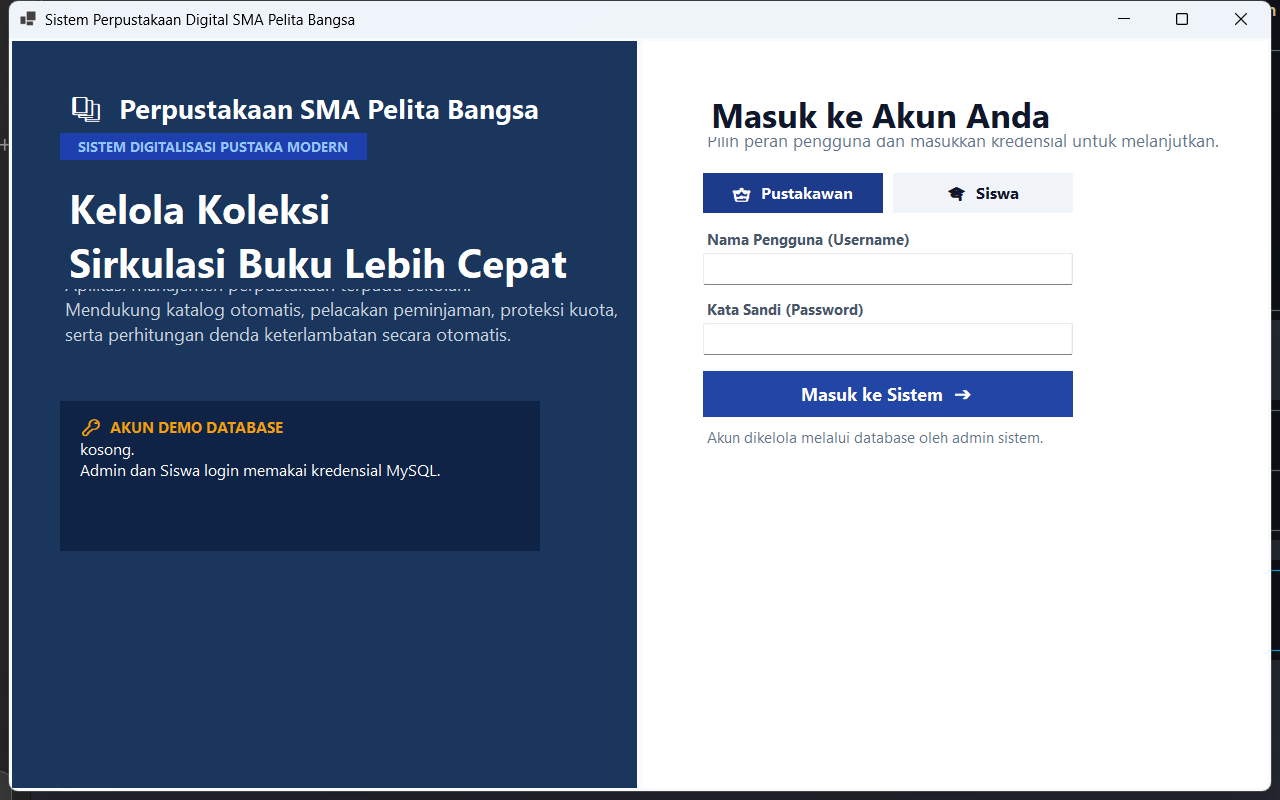
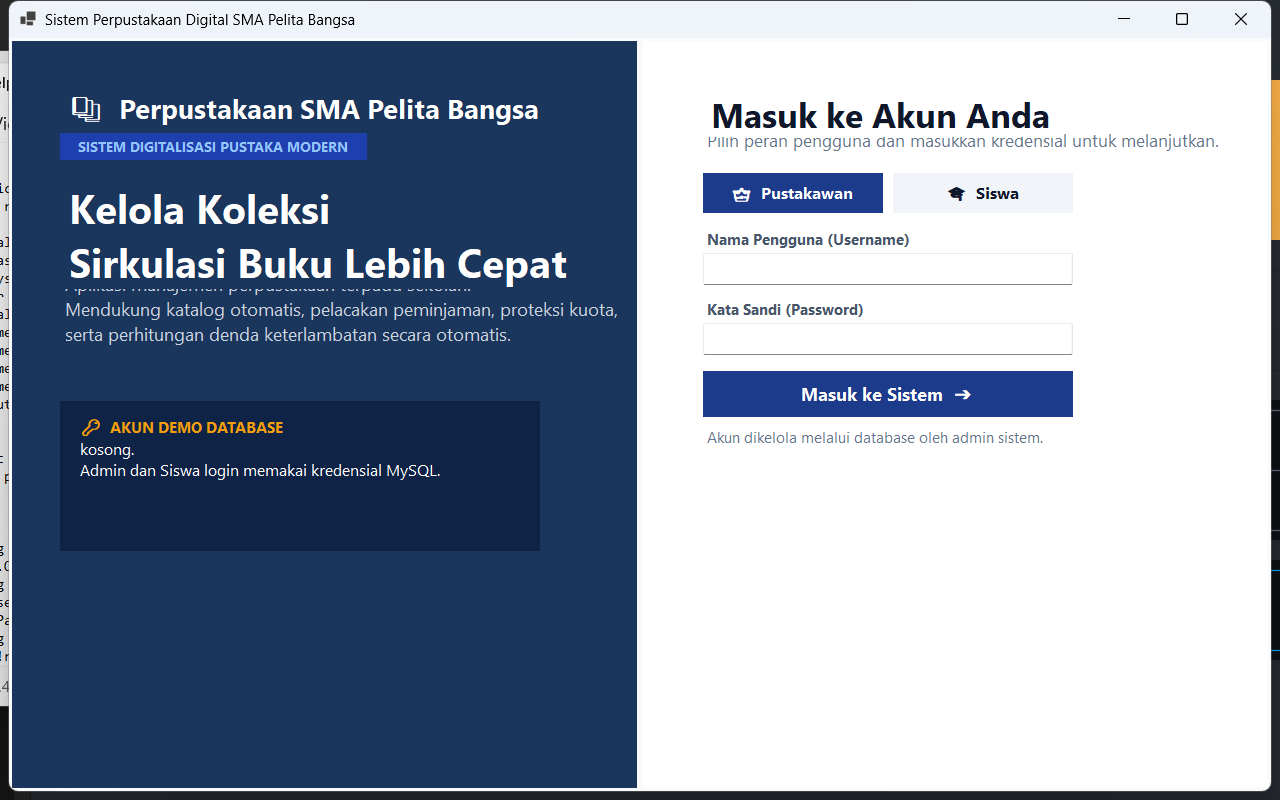
Test app roles and document evidence

diff --git a/Forms/MainForm.cs b/Forms/MainForm.cs
@@ -59,6 +59,8 @@ public class MainForm : Form
     private ComboBox _cmbKategoriBuku = null!;
     private ComboBox _cmbStatusBuku = null!;
     private Button _btnTambahBukuTop = null!;
+    private Panel _pnlActionBuku = null!;
+    private FlowLayoutPanel _pnlActionSirkulasi = null!;
     private Label _lblStripTotal = null!;
     private Label _lblStripTersedia = null!;
     private Label _lblStripDipinjam = null!;
@@ -606,6 +608,7 @@ public class MainForm : Form
 
     private void BeralihMenu(string key)
     {
+        if (_currentUser is Siswa && (key == "ANGGOTA" || key == "LAPORAN")) return;
         if (!_pages.TryGetValue(key, out var target)) return;
 
         foreach (var p in _pages.Values)
@@ -652,8 +655,12 @@ public class MainForm : Form
             _lblGreetingSub.Text = $"Jelajahi koleksi & pantau sirkulasi peminjaman. [Penyimpanan: {statusDbSiswa}]";
         }
 
-        // Tombol Tambah Buku hanya untuk Pustakawan (Role-based UI security)
         _btnTambahBukuTop.Visible = isAdmin;
+        _pnlActionBuku.Visible = isAdmin;
+        _pnlActionSirkulasi.Visible = isAdmin;
+        _btnDetailAksiPinjam.Visible = isAdmin;
+        _pages["ANGGOTA"].Btn.Visible = isAdmin;
+        _pages["LAPORAN"].Btn.Visible = isAdmin;
 
         BeralihMenu("DASBOR");
     }
@@ -882,13 +889,13 @@ public class MainForm : Form
         pnlToolbar.Controls.Add(_btnTambahBukuTop);
 
         // Toolbar Bawah: Tombol Aksi Item
-        var pnlActionBottom = new Panel
+        _pnlActionBuku = new Panel
         {
             Dock = DockStyle.Bottom,
             Height = 56,
             Padding = new Padding(0, 10, 0, 10)
         };
-        panel.Controls.Add(pnlActionBottom);
+        panel.Controls.Add(_pnlActionBuku);
 
         var btnEdit = new Button
         {
@@ -902,7 +909,7 @@ public class MainForm : Form
         };
         btnEdit.FlatAppearance.BorderColor = C_BORDER;
         btnEdit.Click += BtnEditBuku_Click;
-        pnlActionBottom.Controls.Add(btnEdit);
+        _pnlActionBuku.Controls.Add(btnEdit);
 
         var btnHapus = new Button
         {
@@ -916,7 +923,7 @@ public class MainForm : Form
         };
         btnHapus.FlatAppearance.BorderColor = Color.FromArgb(254, 202, 202);
         btnHapus.Click += BtnHapusBuku_Click;
-        pnlActionBottom.Controls.Add(btnHapus);
+        _pnlActionBuku.Controls.Add(btnHapus);
 
         var btnPinjam = new Button
         {
@@ -930,7 +937,7 @@ public class MainForm : Form
         };
         btnPinjam.FlatAppearance.BorderColor = Color.FromArgb(191, 219, 254);
         btnPinjam.Click += BtnPinjamBukuToolbar_Click;
-        pnlActionBottom.Controls.Add(btnPinjam);
+        _pnlActionBuku.Controls.Add(btnPinjam);
 
         var btnKembalikan = new Button
         {
@@ -944,7 +951,7 @@ public class MainForm : Form
         };
         btnKembalikan.FlatAppearance.BorderColor = Color.FromArgb(167, 243, 208);
         btnKembalikan.Click += BtnKembalikanBukuToolbar_Click;
-        pnlActionBottom.Controls.Add(btnKembalikan);
+        _pnlActionBuku.Controls.Add(btnKembalikan);
 
         // Tabel Data Buku
         _gridDataBuku = BuatGridStandar();
@@ -1457,13 +1464,13 @@ public class MainForm : Form
         AddFilterBtn("KEMBALI", "Dikembalikan");
 
         // Tombol Pinjam & Kembali Cepat
-        var pnlActionRight = new FlowLayoutPanel
+        _pnlActionSirkulasi = new FlowLayoutPanel
         {
             Dock = DockStyle.Right,
             Width = 320,
             FlowDirection = FlowDirection.RightToLeft
         };
-        pnlFilter.Controls.Add(pnlActionRight);
+        pnlFilter.Controls.Add(_pnlActionSirkulasi);
 
         var btnKembaliSirkulasi = new Button
         {
@@ -1512,8 +1519,8 @@ public class MainForm : Form
             }
         };
 
-        pnlActionRight.Controls.Add(btnKembaliSirkulasi);
-        pnlActionRight.Controls.Add(btnPinjamSirkulasi);
+        _pnlActionSirkulasi.Controls.Add(btnKembaliSirkulasi);
+        _pnlActionSirkulasi.Controls.Add(btnPinjamSirkulasi);
 
         // Tabel Riwayat Sirkulasi
         _gridSirkulasi = BuatGridStandar();

diff --git a/Draft PBO [Kel1].md b/Draft PBO [Kel1].md
@@ -85,16 +85,41 @@ Telah diimplementasikan konektivitas MySQL / MariaDB (XAMPP) melalui `MySqlConne
 
 ### 2.2 Dokumentasi Progres
 
-Dokumentasi tangkapan layar (*screenshot*) progres pengembangan tersimpan pada direktori `screenshots/`:
+Dokumentasi pengujian dan tangkapan layar tersimpan pada direktori `screenshots/`:
 
-1. **Halaman Autentikasi Pengguna**: `screenshots/01_halaman_login.png`  
-   Menampilkan antarmuka login dua peran dengan form validasi username dan password terenkapsulasi.
-2. **Dashboard Pustakawan & Indikator Database**: `screenshots/02_dashboard_admin_mysql.png`  
-   Menampilkan dashboard, metrik perpustakaan, dan indikator `[Penyimpanan: 🟢 MySQL XAMPP Aktif]`.
-3. **Dashboard Siswa**: `screenshots/03_dashboard_siswa.png`  
-   Menampilkan dashboard khusus peran Siswa.
-4. **Verifikasi Data Relasional**: `screenshots/bukti_query_mysql.txt`  
-   Hasil query tabel `pengguna`, `buku`, dan `transaksi` pada database `pbo_perpustakaan`; akun hanya tampilkan username/role, bukan hash atau salt.
+1. **Tampilan halaman login saat aplikasi berjalan**: `screenshots/01_halaman_login.png`.
+2. **Dashboard Pustakawan dengan koneksi MySQL aktif**: `screenshots/02_dashboard_admin_mysql.png`.
+3. **Dashboard Siswa dengan navigasi terbatas**: `screenshots/03_dashboard_siswa.png`.
+4. **Penolakan kredensial salah**: `screenshots/04_login_rejected.png`; dialog menampilkan `Username, password, atau role salah.`.
+5. **Katalog Siswa read-only**: `screenshots/05_siswa_katalog_readonly.png`; buku dan filter terlihat, tombol CRUD/sirkulasi tersembunyi.
+6. **Riwayat peminjaman Siswa**: `screenshots/06_siswa_peminjaman_readonly.png`; aksi pinjam/kembali tersembunyi. Data contoh tidak memiliki transaksi atas nama `siswa`, sehingga tabel kosong; penyaringan data pemilik diperiksa pada kode.
+7. **Manajemen buku Pustakawan**: `screenshots/07_admin_manajemen_buku.png`; menampilkan 9 buku dan kontrol tambah/edit/hapus/sirkulasi.
+8. **Kompilasi proyek**: `screenshots/08_dotnet_build_success.png`; hasil `dotnet build`, 0 warning dan 0 error.
+9. **Publikasi executable Windows**: `screenshots/09_dotnet_publish_success.png`; hasil publish untuk `win-x64` ke `publish/win-x64/` melalui direktori staging.
+
+**Matriks uji aktual**:
+
+| Skenario | Hasil |
+|---|---|
+| `dotnet build` | Lulus; 0 warning, 0 error |
+| Self-check dengan MariaDB XAMPP aktif | Lulus; koneksi 10.4.32-MariaDB, 9 buku, 5 transaksi |
+| Login admin dan siswa dengan akun demo | Lulus; keduanya terautentikasi via MySQL dan hash PBKDF2-SHA256 |
+| Password salah, username tak dikenal, role salah | Ditolak |
+| DB tak tersedia | Login ditolak; fallback hanya memuat data buku/transaksi dari file |
+| Login admin melalui executable hasil publish | Lulus; dashboard menunjukkan MySQL aktif |
+| Login siswa melalui executable hasil publish | Lulus; Anggota/Laporan dan kontrol mutasi/sirkulasi tersembunyi |
+| Katalog Siswa / navigasi Pustakawan | Teruji manual; Siswa read-only, Pustakawan melihat kontrol pengelolaan |
+
+**Perintah uji ulang**:
+
+```powershell
+dotnet build --nologo -v q
+dotnet run --no-build -- --test
+$env:PERPUSTAKAAN_MYSQL_CONNECTION = 'Server=127.0.0.1;Port=1;Database=missing;User ID=x;Password=x;Connection Timeout=1;'
+dotnet run --no-build -- --test
+```
+
+Perintah terakhir menguji mode database tidak tersedia; hasil yang dicatat ialah autentikasi gagal tertutup, sementara data buku/transaksi memakai fallback berkas.
 
 ### 2.3 Kendala yang Dihadapi dan Solusi
 
